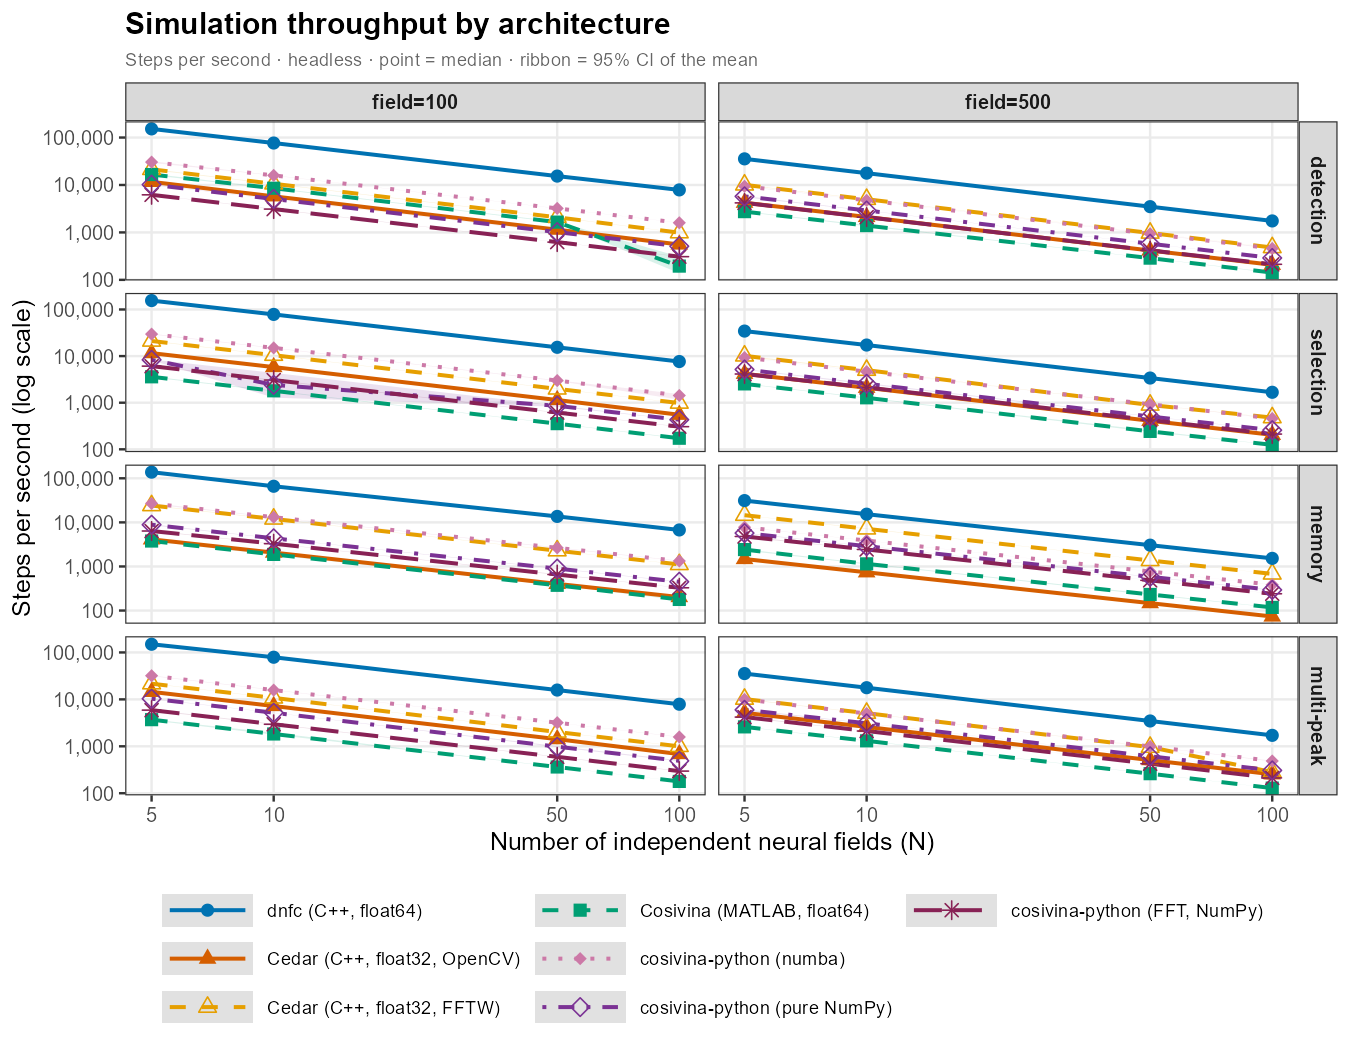
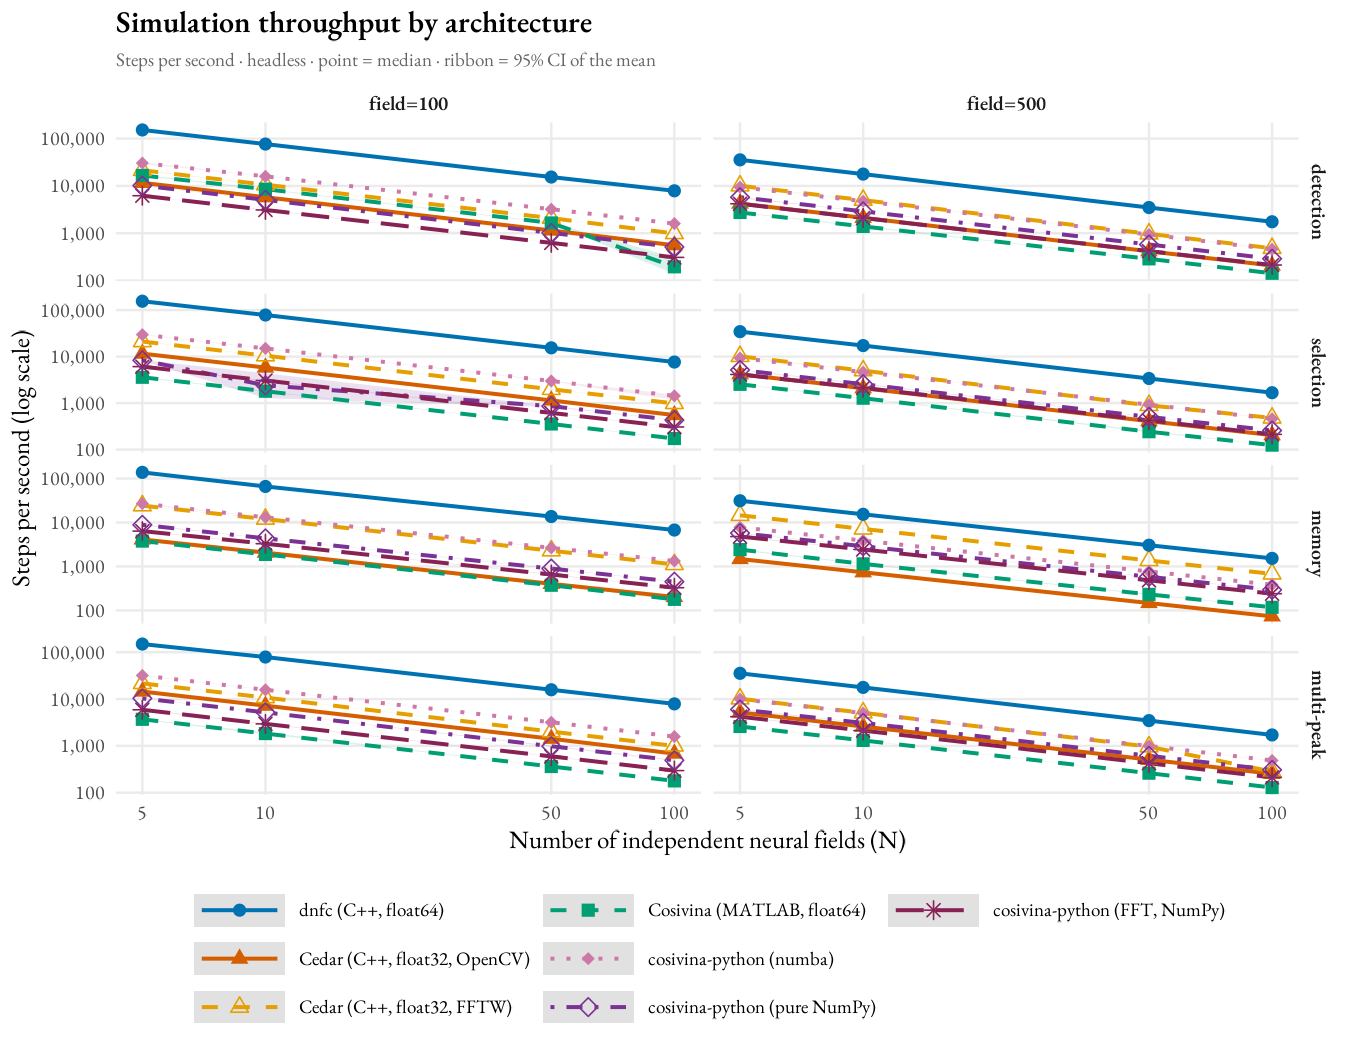
Restyle all figure scripts with EB Garamond/colorblind-safe theme; embed benchmark figures in README
Applies the EB Garamond + theme_minimal() look (matching the paper figures) to
benchmarking/fig_benchmark.R, benchmarking-2d/fig_benchmark_2d.R, and both
cross-platform-validation analysis.R scripts, and regenerates all affected PNGs.
README.md now embeds the 1D/2D throughput figures directly.

diff --git a/README.md b/README.md
@@ -58,6 +58,8 @@ with **numba-JIT cosivina-python second** at both field sizes. See
 [`benchmarking/README.md`](benchmarking/README.md) for the full per-regime breakdown, methodology,
 and statistical detail.
 
+![Simulation throughput by architecture (1D)](benchmarking/fig_benchmark_throughput.png)
+
 ---
 
 ## Benchmark Results (2D)
@@ -87,6 +89,8 @@ second crossover appears **within** cosivina-python: the spectral **FFT** varian
 of its three variants (≈25 sps vs numba's 10–20 and NumPy's 3–5 at grid 100), the reverse of 1D —
 FFT's kernel-width-independent cost pays off once the field is 2D, and it stays flat across regimes
 where the spatial variants slow on the wide memory kernel.
+
+![Simulation throughput by architecture (2D)](benchmarking-2d/fig_benchmark_throughput.png)
 
 ---
 
